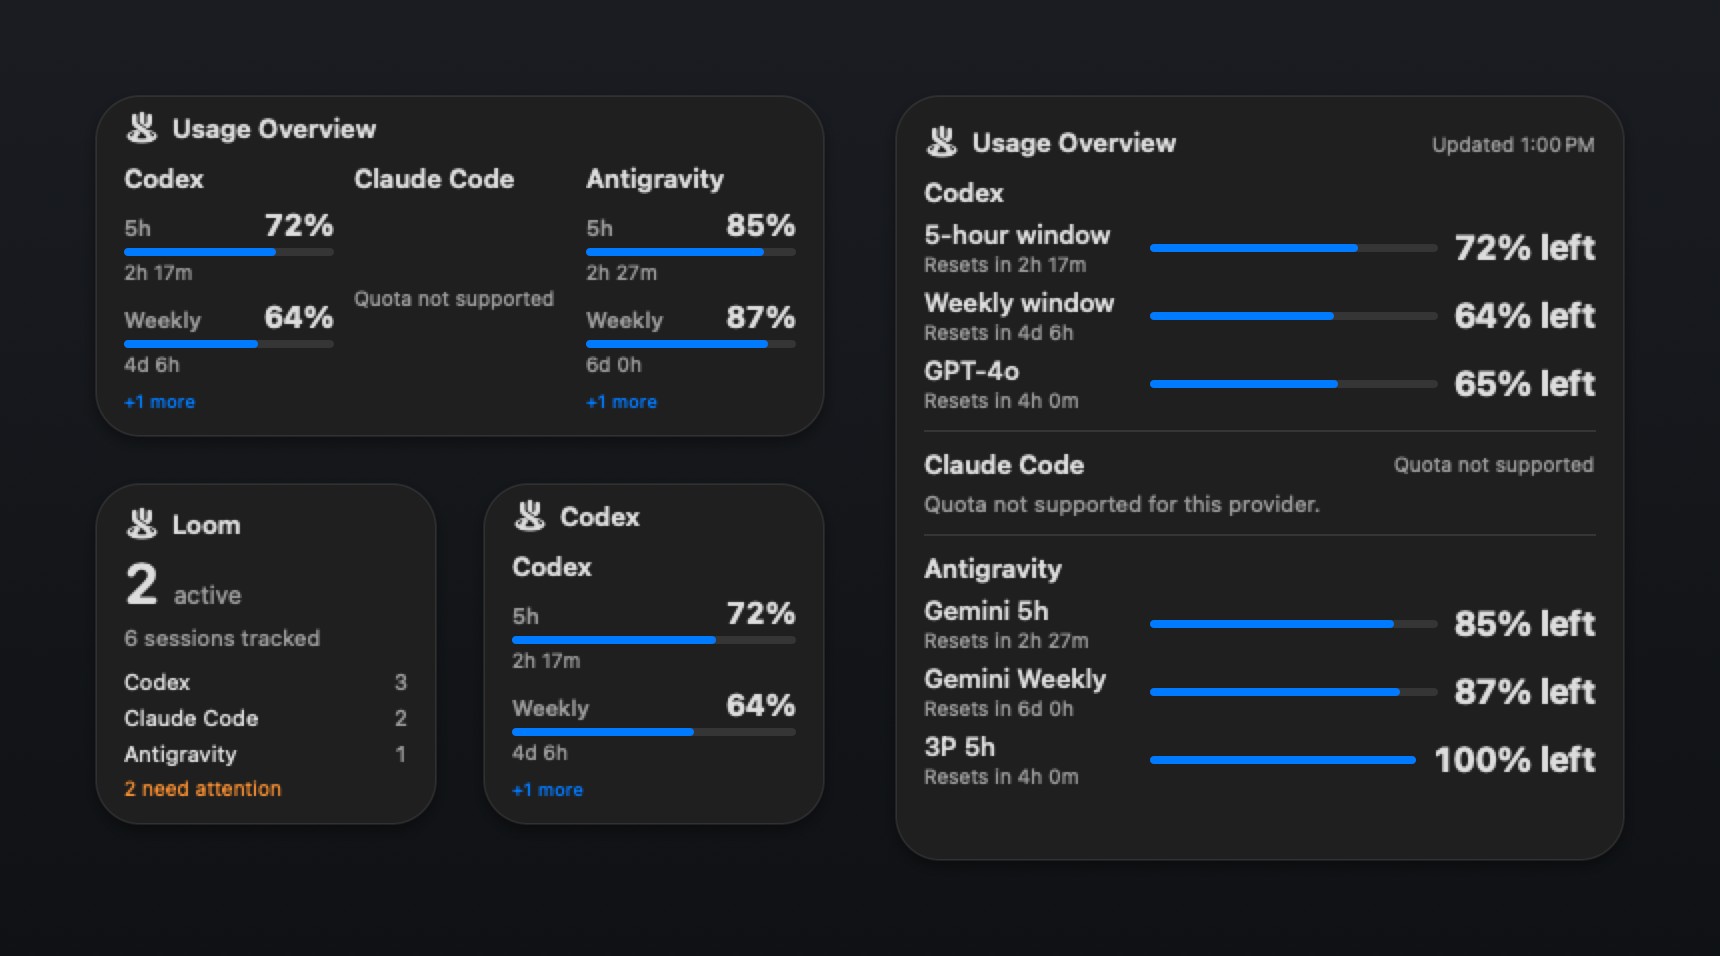
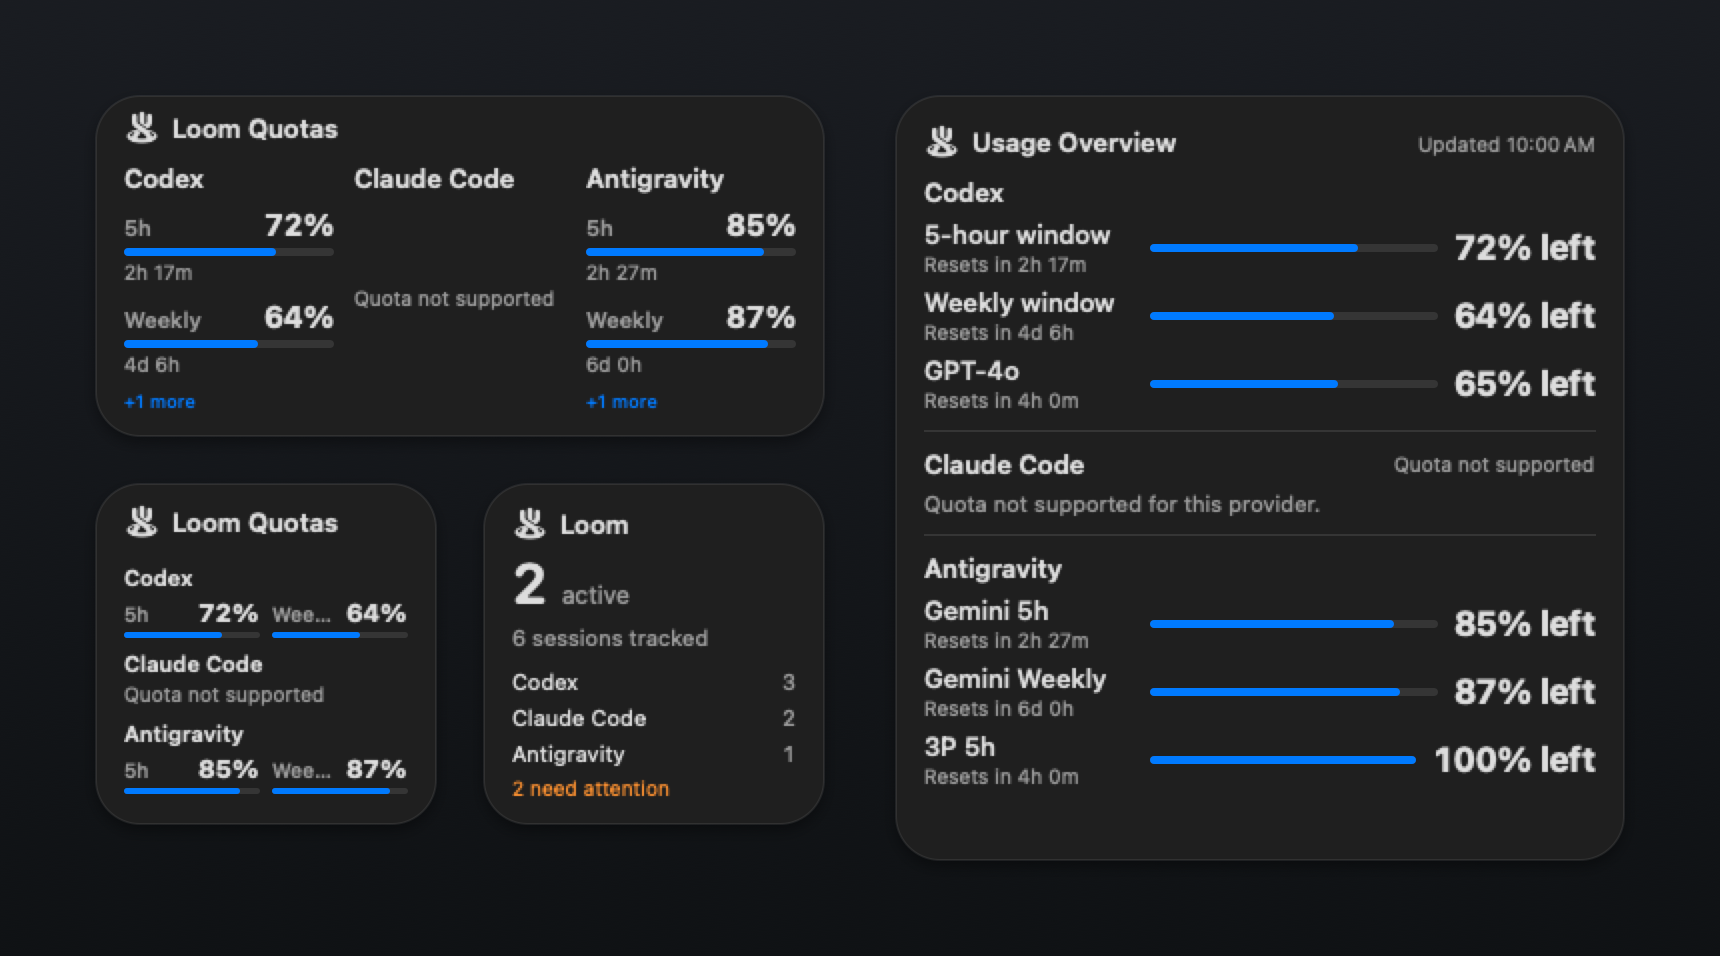
docs: improve Loom widget showcase

diff --git a/scripts/capture-docs-assets.swift b/scripts/capture-docs-assets.swift
@@ -67,7 +67,12 @@ struct AssetCapturer {
         let docsDir = repoRoot.appendingPathComponent("docs")
         try? FileManager.default.createDirectory(at: docsDir, withIntermediateDirectories: true)
 
-        let now = Date()
+        let calendar = Calendar.current
+        var components = calendar.dateComponents([.year, .month, .day], from: Date())
+        components.hour = 10
+        components.minute = 0
+        components.second = 0
+        let now = calendar.date(from: components) ?? Date()
 
         let demoLoomPath = URL(fileURLWithPath: "/Users/Shared/Projects/Loom")
         try? FileManager.default.createDirectory(at: demoLoomPath, withIntermediateDirectories: true)
@@ -300,7 +305,16 @@ struct AssetCapturer {
         window.close()
 
         // 3. Render Widgets
-        let widgetSnapshot = LoomWidgetSnapshot.make(from: store)
+        let baseSnapshot = LoomWidgetSnapshot.make(from: store)
+        let widgetSnapshot = LoomWidgetSnapshot(
+            schemaVersion: baseSnapshot.schemaVersion,
+            timestamp: now,
+            activeSessionCount: baseSnapshot.activeSessionCount,
+            attentionSessionCount: baseSnapshot.attentionSessionCount,
+            totalSessionCount: baseSnapshot.totalSessionCount,
+            providerSummaries: baseSnapshot.providerSummaries,
+            statusMessage: baseSnapshot.statusMessage
+        )
         let widgetEntry = LoomWidgetEntry(
             date: now,
             snapshot: widgetSnapshot,
@@ -312,34 +326,32 @@ struct AssetCapturer {
         let mediumSize = NSSize(width: 364, height: 170)
         let largeSize = NSSize(width: 364, height: 382)
 
-        // Render Small Quotas Widget (Single provider Codex configuration)
-        let widgetEntryCodex = LoomWidgetEntry(
-            date: now,
-            snapshot: widgetSnapshot,
-            readResult: .success(widgetSnapshot),
-            providerID: "codex"
+        // Render Small Quotas Widget (All enabled providers)
+        let smallQuotaHost = NSHostingView(
+            rootView: LoomQuotaWidgetView(entry: widgetEntry, familyOverride: .systemSmall).padding(14)
         )
-        let smallQuotaHost = NSHostingView(rootView: LoomQuotaWidgetView(entry: widgetEntryCodex).padding(14))
         smallQuotaHost.frame = NSRect(origin: .zero, size: smallSize)
         smallQuotaHost.appearance = NSAppearance(named: .darkAqua)
         await settle(smallQuotaHost, cycles: 20)
         let smallQuotaImg = renderImage(view: smallQuotaHost)
 
-        // Render Small Sessions Widget
+        // Render Small Sessions Widget (Multi-provider active sessions)
         let smallSessionsHost = NSHostingView(rootView: LoomSmallWidgetView(entry: widgetEntry).padding(14))
         smallSessionsHost.frame = NSRect(origin: .zero, size: smallSize)
         smallSessionsHost.appearance = NSAppearance(named: .darkAqua)
         await settle(smallSessionsHost, cycles: 20)
         let smallSessionsImg = renderImage(view: smallSessionsHost)
 
-        // Render Medium Usage Overview Widget
-        let mediumOverviewHost = NSHostingView(rootView: LoomUsageOverviewMediumView(entry: widgetEntry).padding(14))
-        mediumOverviewHost.frame = NSRect(origin: .zero, size: mediumSize)
-        mediumOverviewHost.appearance = NSAppearance(named: .darkAqua)
-        await settle(mediumOverviewHost, cycles: 20)
-        let mediumOverviewImg = renderImage(view: mediumOverviewHost)
+        // Render Medium Quotas Widget (All enabled providers)
+        let mediumQuotaHost = NSHostingView(
+            rootView: LoomQuotaWidgetView(entry: widgetEntry, familyOverride: .systemMedium).padding(14)
+        )
+        mediumQuotaHost.frame = NSRect(origin: .zero, size: mediumSize)
+        mediumQuotaHost.appearance = NSAppearance(named: .darkAqua)
+        await settle(mediumQuotaHost, cycles: 20)
+        let mediumQuotaImg = renderImage(view: mediumQuotaHost)
 
-        // Render Large Usage Overview Widget
+        // Render Large Usage Overview Widget (All enabled providers)
         let largeOverviewHost = NSHostingView(rootView: LoomUsageOverviewLargeView(entry: widgetEntry).padding(14))
         largeOverviewHost.frame = NSRect(origin: .zero, size: largeSize)
         largeOverviewHost.appearance = NSAppearance(named: .darkAqua)
@@ -348,7 +360,7 @@ struct AssetCapturer {
 
         // 4. Compose Widget Showcase
         composeWidgetShowcase(
-            medium: mediumOverviewImg,
+            medium: mediumQuotaImg,
             smallSessions: smallSessionsImg,
             smallQuotas: smallQuotaImg,
             large: largeOverviewImg,
@@ -475,13 +487,13 @@ struct AssetCapturer {
         let mediumRect = CGRect(x: leftX, y: topY - 170, width: 364, height: 170)
         drawWidget(medium, at: mediumRect)
 
-        // Left Bottom: Small Sessions & Small Quotas (each 170 x 170, gap 24)
+        // Left Bottom: Small Quotas & Small Sessions (each 170 x 170, gap 24)
         let bottomY = mediumRect.minY - 24 - 170
-        let smallSessionsRect = CGRect(x: leftX, y: bottomY, width: 170, height: 170)
-        drawWidget(smallSessions, at: smallSessionsRect)
-
-        let smallQuotasRect = CGRect(x: leftX + 170 + 24, y: bottomY, width: 170, height: 170)
+        let smallQuotasRect = CGRect(x: leftX, y: bottomY, width: 170, height: 170)
         drawWidget(smallQuotas, at: smallQuotasRect)
+
+        let smallSessionsRect = CGRect(x: leftX + 170 + 24, y: bottomY, width: 170, height: 170)
+        drawWidget(smallSessions, at: smallSessionsRect)
 
         // Right Column: Large (364 x 382, matching top alignment)
         let largeRect = CGRect(x: rightX, y: topY - 382, width: 364, height: 382)
